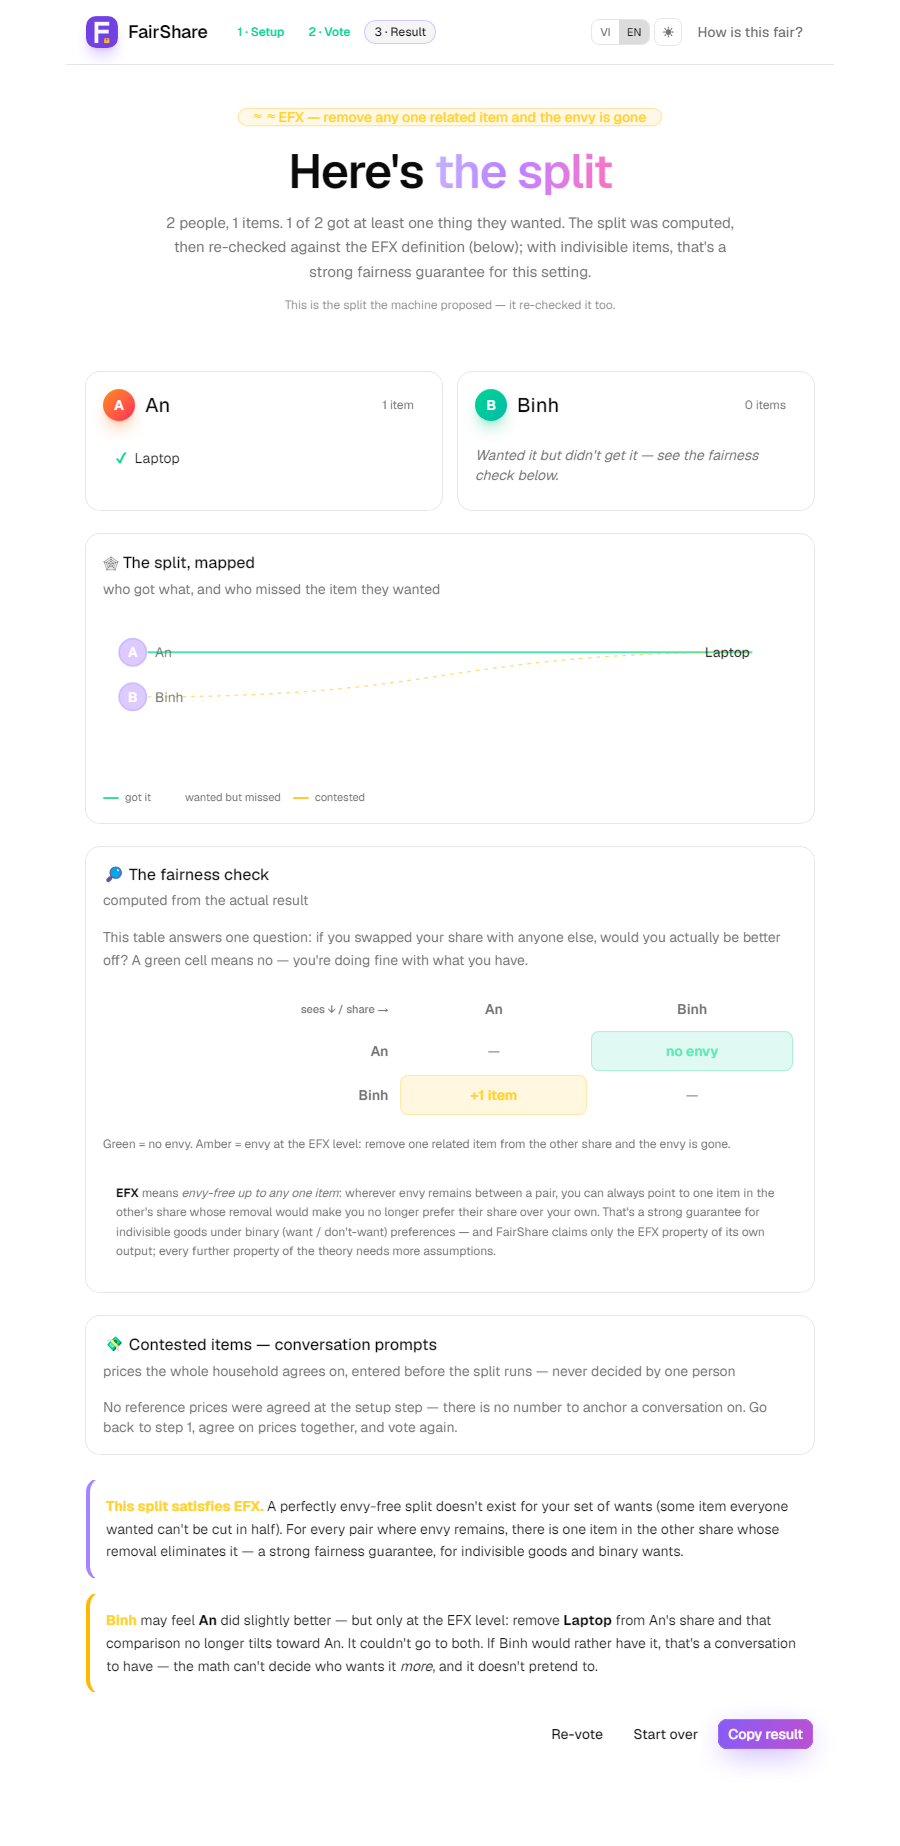
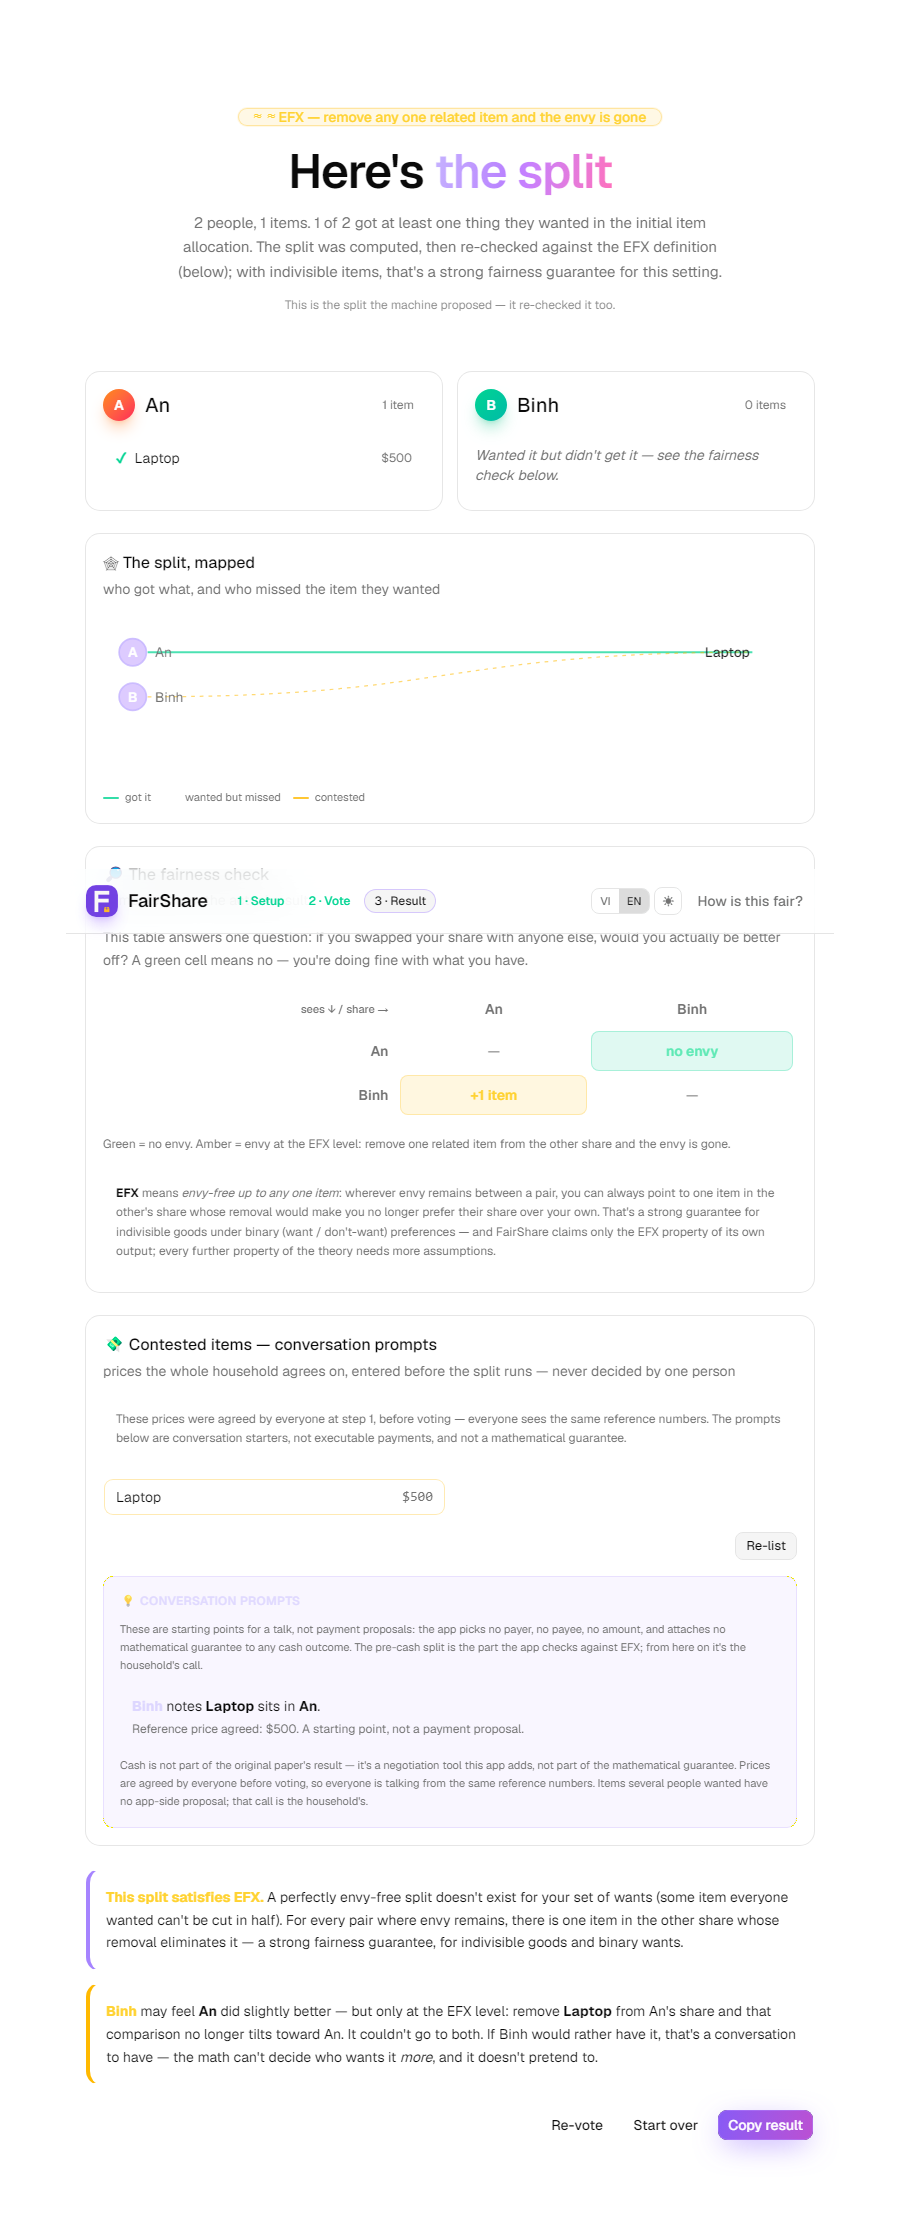
refactor: discuss() prompts for all priced contested items, remove half-price, clarify unresolved
- discuss() now surfaces a prompt for every contested item with an
  agreed reference price, regardless of how many people want it. The
  app recommends no payer, recipient, or outcome — the household
  decides how to resolve it.
- Removed 'half' from NegotiationPrompt and all UI/i18n strings. The
  reference price alone is shown; no payment-split hint.
- Unresolved list is now 'contested items with no agreed price' — no
  mention of multi-wanter.
- README cash section: removed 'if two or more people wanted it, the
  app deliberately proposes nothing' — replaced with consistent
  framing that every priced contested item gets a prompt.
- resultSub (vi+en): added 'in the initial item allocation' to
  clarify 'got at least one thing they wanted' refers to the item
  split, not cash.
- e2e: contested-laptop scenario agrees a price, opens prompts card,
  asserts the unresolved list names Laptop with no executable-payment
  language.
- test-fairdiv.mjs: removed half-price assertions; 317 pass / 0
  fail across ~335 total assertions.

diff --git a/src/i18n.tsx b/src/i18n.tsx
@@ -137,7 +137,7 @@ export const STRINGS: Record<Lang, StringDict> = {
     efxHeadline: "Đây là cách chia mà máy đề xuất — máy cũng tự kiểm lại.",
     resultTitle: "Đây là", resultTitleSpan: "cách chia",
     resultSub: (got: number, n: number, m: number) =>
-      `${n} người, ${m} món. ${got} / ${n} người nhận được ít nhất một món họ muốn. Máy đã chia xong rồi tự kiểm lại kết quả theo định nghĩa EFX (xem bên dưới); với đồ không thể cắt đôi, đó là bảo đảm công bằng mạnh mà lý thuyết cho phép ở đây.`,
+      `${n} người, ${m} món. ${got} / ${n} người nhận được ít nhất một món họ muốn trong phần chia đồ. Máy đã chia xong rồi tự kiểm lại kết quả theo định nghĩa EFX (xem bên dưới); với đồ không thể cắt đôi, đó là bảo đảm công bằng mạnh mà lý thuyết cho phép ở đây.`,
     noOneWanted: "🤷 Không ai muốn mấy món này",
     noOneWantedDesc:
       "Bán, tặng, hoặc tung đồng xu. Thuật toán không ép ai nhận đồ họ không muốn.",
@@ -309,7 +309,7 @@ export const STRINGS: Record<Lang, StringDict> = {
     efxHeadline: "This is the split the machine proposed — it re-checked it too.",
     resultTitle: "Here's", resultTitleSpan: "the split",
     resultSub: (got: number, n: number, m: number) =>
-      `${n} people, ${m} items. ${got} of ${n} got at least one thing they wanted. The split was computed, then re-checked against the EFX definition (below); with indivisible items, that's a strong fairness guarantee for this setting.`,
+      `${n} people, ${m} items. ${got} of ${n} got at least one thing they wanted in the initial item allocation. The split was computed, then re-checked against the EFX definition (below); with indivisible items, that's a strong fairness guarantee for this setting.`,
     noOneWanted: "🤷 Nobody wanted these",
     noOneWantedDesc:
       "Sell, donate, or coin-flip. The algorithm won't force anyone to take stuff they don't want.",

diff --git a/src/App.tsx b/src/App.tsx
@@ -831,7 +831,7 @@ function Results({
     if (discussResult && discussResult.prompts.length) {
       txt += `\nDiscussion prompts:\n`
       for (const p of discussResult.prompts) {
-        txt += `  • ${items[p.item]} — ${people[p.envier]} notes it sits in ${people[p.envied]}'s share. Reference price $${p.price.toFixed(0)} (half $${p.half.toFixed(0)}). Talk it over.\n`
+        txt += `  • ${items[p.item]} — ${people[p.envier]} notes it sits in ${people[p.envied]}'s share. Reference price $${p.price.toFixed(0)}. Talk it over.\n`
       }
     }
     txt += `\nFairness: ${v.isEF ? t.fairnessLineEF : t.fairnessLineEFX}\nSplit with FairShare.`
@@ -1240,8 +1240,8 @@ function MoneyCard(props: {
                     </p>
                     <p className="mt-1 text-xs text-muted-foreground">
                       {props.lang === "vi"
-                        ? `Giá tham khảo đã chốt: $${p.price.toFixed(0)} (một nửa là $${p.half.toFixed(0)}). Đây là điểm bắt đầu, không phải đề xuất thanh toán.`
-                        : `Reference price agreed: $${p.price.toFixed(0)} (half is $${p.half.toFixed(0)}). A starting point, not a payment proposal.`}
+                        ? `Giá tham khảo đã chốt: $${p.price.toFixed(0)}. Đây là điểm bắt đầu, không phải đề xuất thanh toán.`
+                        : `Reference price agreed: $${p.price.toFixed(0)}. A starting point, not a payment proposal.`}
                     </p>
                   </li>
                 ))}

diff --git a/src/lib/fairdiv.ts b/src/lib/fairdiv.ts
@@ -177,14 +177,12 @@ export interface NegotiationPrompt {
   item: number
   /** Reference price agreed for that item. */
   price: number
-  /** Half the reference price — the value the household has anchored on. */
-  half: number
 }
 
 export interface DiscussResult {
-  /** Negotiation prompts, one per contested item that has an agreed price. */
+  /** Conversation prompts, one per contested item that has an agreed price. */
   prompts: NegotiationPrompt[]
-  /** Items that are contested but have no agreed price, or have multiple wanters. */
+  /** Contested items with no agreed price — the household needs a number before the app can surface a prompt. */
   unresolved: number[]
 }
 
@@ -206,7 +204,6 @@ export function discuss(
         envied: c.envied,
         item: c.item,
         price,
-        half: price / 2,
       })
     } else {
       unresolvedSet.add(c.item)

diff --git a/README.md b/README.md
@@ -96,14 +96,13 @@ as conversation prompts, under strict conditions:
   prices were set after you knew who envied what, you could mark "want"
   on an item you don't care about just to tilt the later bargaining. Set
   first and in the open, that play has less room to operate.
-- **The app surfaces prompts, not transfers.** If exactly one person
-  wanted the contested item, the price-sheet card in the result screen
-  names the item, the envier, and the envied, and shows the reference
-  price with half of it as a starting anchor. If two or more people
-  wanted it, the app deliberately proposes nothing — no automatic amount
-  can stand in for a negotiation between people who all want the same
-  thing, so the call is left to the household: split the difference,
-  coin-flip, rotate ownership over time.
+- **The app surfaces prompts, not transfers.** For every contested item
+  with an agreed reference price, FairShare shows the people involved
+  and the shared reference price. It recommends no payer, no recipient,
+  no outcome — the household decides how to resolve it. If an item is
+  contested but no price was agreed, the app flags it explicitly so the
+  household knows a number is missing before they can have that
+  conversation.
 - **The pre-cash split is the part with a mathematical guarantee.** The
   app's EFX check runs against the allocation itself, before any cash
   enters the picture. The prompts below that are a *starting point for
@@ -225,7 +224,7 @@ in for the negotiation, and the app stays silent.
 
 ```
 $ node test-fairdiv.mjs
-fairdiv: ~320 pass, 0 fail
+fairdiv: ~335 pass, 0 fail
 ```
 
 `test-fairdiv.mjs` runs through Node 24's native TypeScript type-stripping
